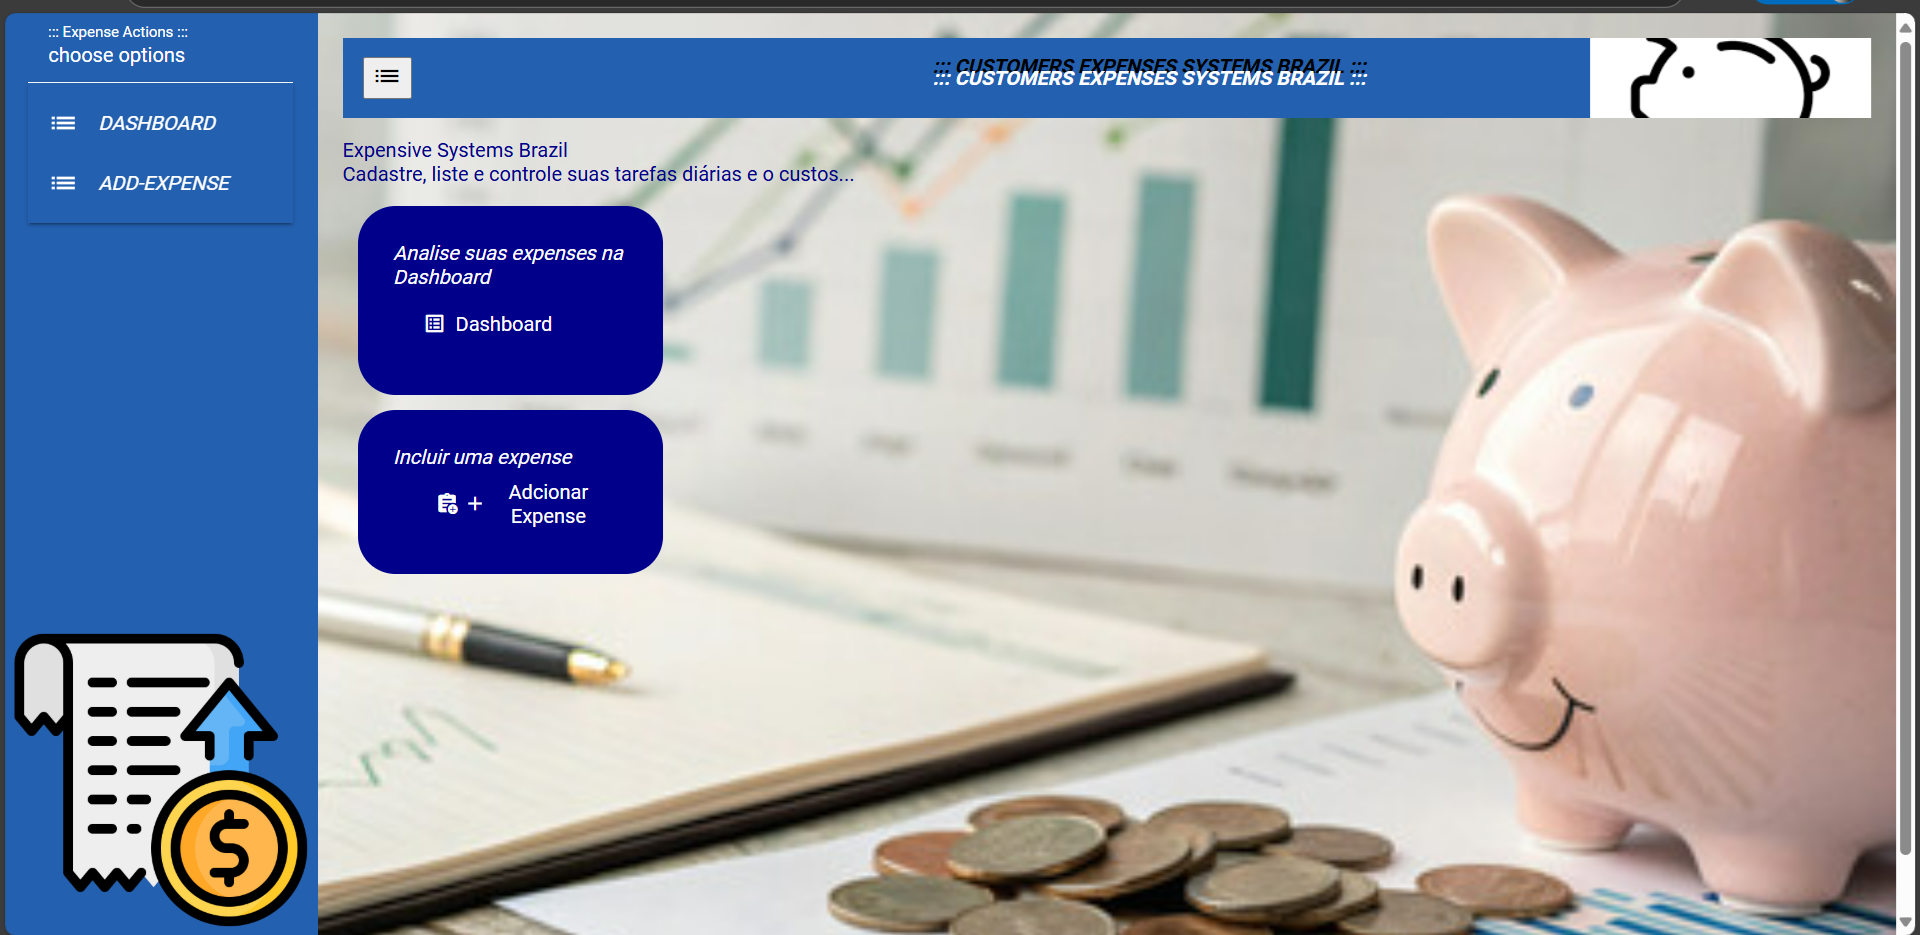
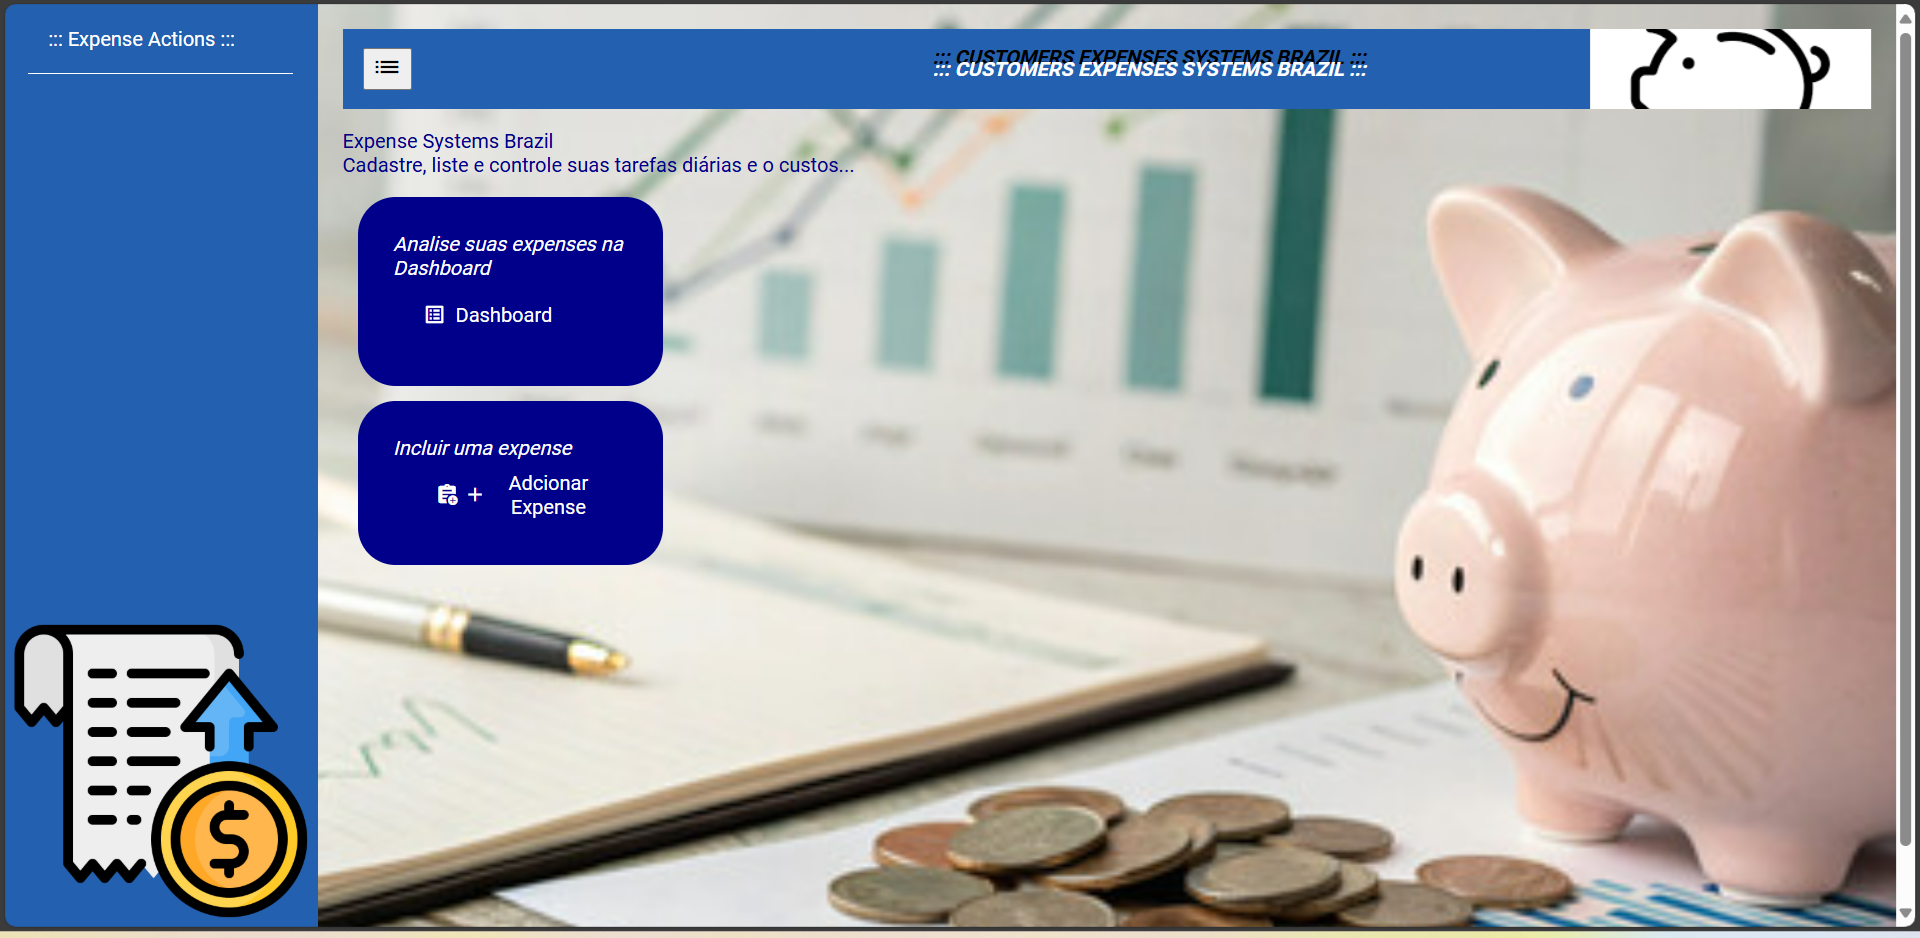
Ajuste README

diff --git a/src/app/expense-onboarding/expense-onboarding.component.html b/src/app/expense-onboarding/expense-onboarding.component.html
@@ -1,5 +1,5 @@
 <div>
-<p>Expensive Systems Brazil
+<p>Expense Systems Brazil
   <br /> Cadastre, liste e controle suas tarefas diárias e o custos...</p>
 
 
